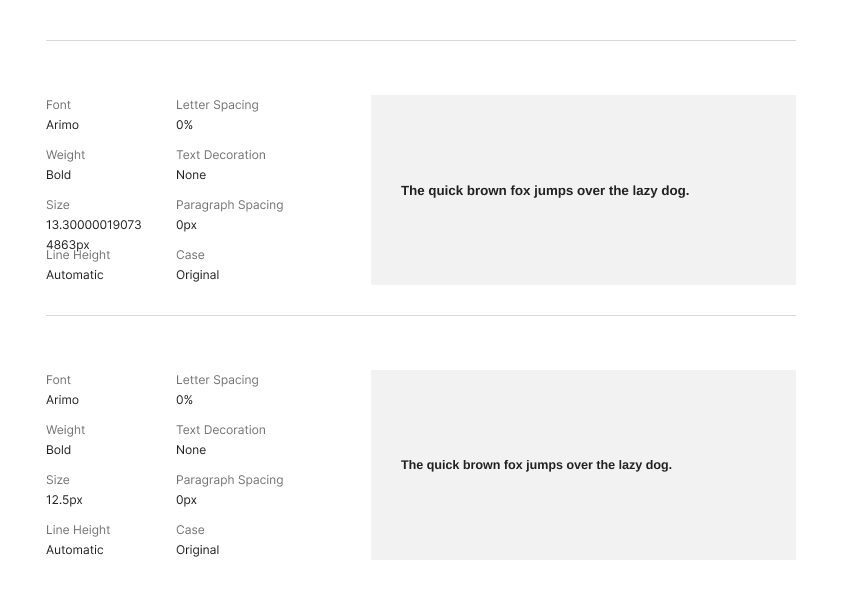
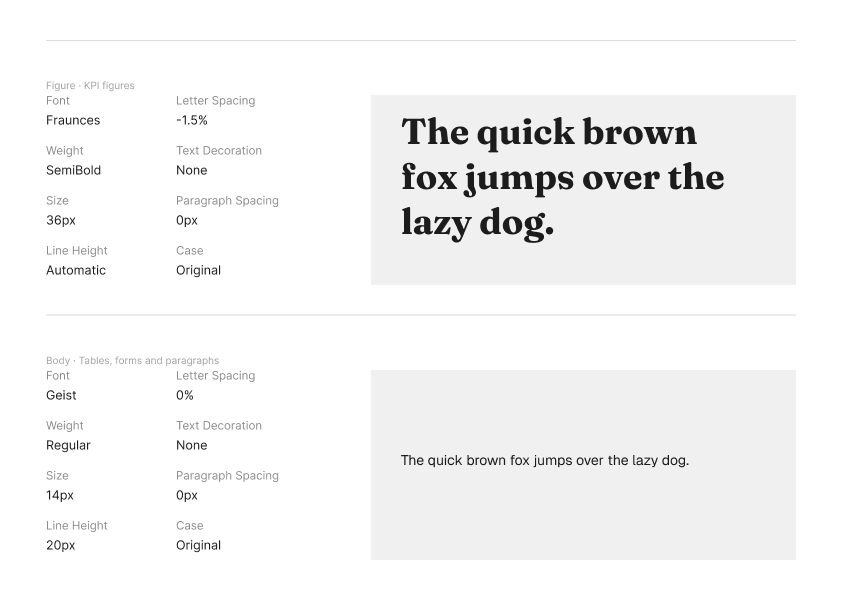
feat(cap-4): add website wireframes, wireflows, mockups, user flows and prototype map

diff --git a/report/13-chapter-04.md b/report/13-chapter-04.md
@@ -2,7 +2,7 @@
 
 ## 4.1. Style Guidelines.
 
-Esta sección establece las bases visuales y de comunicación para mantener la consistencia en todos los productos digitales de **OrganiK** (Landing Page y Dashboards). El objetivo es contar con un repositorio centralizado que facilite la escalabilidad del diseño y garantice una experiencia de usuario coherente tanto para administradores de minimarkets como para proveedores.
+Esta sección establece las bases visuales y de comunicación para mantener la consistencia en todos los productos digitales de OrganiK (Landing Page y Web Application). El objetivo es contar con un repositorio centralizado que facilite la escalabilidad del diseño y garantice una experiencia de usuario coherente para quienes gestionan el inventario, la conservación y el abastecimiento de productos orgánicos.
 
 ### 4.1.1. General Style Guidelines.
 
@@ -13,19 +13,23 @@ La comunicación de OrganiK se rige bajo cuatro dimensiones principales para est
 *   **Respetuoso vs. Irreverente:** Respetuoso. Considera la alta carga operativa y el estrés de los usuarios (como los administradores de minimarkets), mostrándose como un asistente empático.
 *   **Entusiasta vs. Sereno:** Sereno. Las interfaces e interacciones no buscan abrumar al usuario con celebraciones excesivas, sino brindar tranquilidad mediante la automatización y alertas preventivas.
 
+La interfaz se ofrece en español (idioma por defecto) y en inglés, con selector de idioma visible en la cabecera.
+
 **Branding y Paleta de Colores**
-La paleta cromática ha sido seleccionada cuidadosamente para generar confianza y evocar la naturaleza de los productos orgánicos, manteniendo un alto contraste para la lectura de datos:
-*   **Colores Primarios (Acción y Confianza):** Se utilizan tonalidades azules como *Azure Radiance* y *Dodger Blue*. El azul transmite seguridad, estabilidad y limpieza tecnológica.
-*   **Colores de Acento y Alerta (Dinamismo):** Se integran tonos anaranjados como *Pumpkin* y *Orange*. Utilizados exclusivamente para llamados a la acción (CTAs) y notificaciones críticas (alertas IoT de temperatura o fechas de vencimiento próximas).
-*   **Colores Neutros (Estructura y Legibilidad):** Se emplean variantes de grises (como *Slate Gray* y *Boulder*) y blancos (*Alice Blue*, *White*) para los fondos de los dashboards, reduciendo la fatiga visual.
+La paleta cromática evoca la naturaleza de los productos orgánicos y mantiene un alto contraste para la lectura de datos. Todo el producto se construye sobre una escala de verdes con un acento lima y neutros tintados de verde:
+*   **Colores Primarios (Marca y Acción):** *Forest* (`#0B2B1C`) para la barra lateral y superficies de énfasis; *Green* (`#17803F`) y *Green Strong* (`#116A33`) para botones principales, enlaces y estados activos; *Leaf* (`#2FA866`) para gráficos e indicadores positivos.
+*   **Colores de Acento (Dinamismo):** *Lime* (`#C8E04F`) y *Lime Soft* (`#D8EC8A`) para resaltar el elemento activo, cifras destacadas y llamados a la acción secundarios.
+*   **Colores Neutros (Estructura y Legibilidad):** *Mist* (`#EDF3EE`) como fondo de pantalla, *Tint* (`#E6F3E9`) y *Tint Strong* (`#D3EBD9`) para superficies y filas, *Border* (`#D5E4D8`) para divisores, *Muted* (`#4E6556`) para texto secundario y blanco para tarjetas, reduciendo la fatiga visual.
+*   **Colores de Estado (Alerta):** *Danger* (`#B42318`) con fondo *Danger Soft* (`#FDE8E6`) para errores, vencimientos críticos y alertas de conservación; *Warning* (`#7A4B00`) con fondo *Warning Soft* (`#FBE7A6`) para productos próximos a vencer y solicitudes pendientes.
 
 ![General Style Guide - Colores y Tipografía](assets/chapter-04/style-guideline-1.png)
 ![General Style Guide - Colores y Tipografía](assets/chapter-04/style-guideline-2.png)
 
 **Tipografía**
-Se seleccionaron dos familias Sans-Serif priorizando la legibilidad en pantallas de múltiples resoluciones:
-*   **Arimo:** Utilizada en encabezados, títulos de módulos y cifras destacadas en los dashboards. Su estructura robusta permite una rápida lectura de los KPIs.
-*   **Inter:** Asignada a los cuerpos de texto y tablas de datos. Diseñada específicamente para interfaces, garantiza que los datos densos sean legibles en tamaños pequeños.
+Se seleccionaron dos familias priorizando la legibilidad en pantallas de múltiples resoluciones (con Inter reservada para los wireframes de baja fidelidad):
+*   **Fraunces (SemiBold):** Utilizada en títulos de pantalla, títulos de tarjetas y cifras destacadas (KPIs) del dashboard. Su carácter serif aporta calidez y un tono natural acorde con el rubro orgánico. Estilos: *Display* 32 px, *Title* 24 px y *Figure* 36 px.
+*   **Geist:** Asignada a la interfaz: cuerpos de texto, tablas de datos, formularios, botones y etiquetas. Diseñada para interfaces, garantiza que los datos densos sean legibles en tamaños pequeños. Estilos: *Body* 14 px, *Body Medium* 15 px, *Caption* 12.5 px y *Label* 12 px en mayúsculas.
+*   **Inter:** Usada únicamente en los wireframes (12.7 px) para mantener un aspecto neutro y sin decoración.
 
 ![General Style Guide - Colores y Tipografía](assets/chapter-04/style-guideline-3.png)
 ![General Style Guide - Colores y Tipografía](assets/chapter-04/style-guideline-4.png)
@@ -36,56 +40,62 @@ Se seleccionaron dos familias Sans-Serif priorizando la legibilidad en pantallas
 
 Para garantizar que la experiencia sea fluida y adaptable (Responsive Web Design), se establecen los siguientes estándares visuales y de interacción:
 
-*   **Sistema de Grillas y Espaciado:** Se utiliza un sistema de espaciado basado en múltiplos de 8px para asegurar consistencia. La estructura base emplea una grilla de 12 columnas para resoluciones de escritorio, adaptándose a 4 columnas en dispositivos móviles.
-*   **Puntos de Ruptura (Breakpoints):** El diseño es fluido, con puntos de adaptación clave en 320px (Mobile), 768px (Tablet) y 1024px+ (Desktop/Laptop).
+*   **Sistema de Espaciado y Forma:** Se utiliza un espaciado basado en múltiplos de 4 y 8 px. Las tarjetas y paneles usan esquinas de 12 px y los campos y botones de 8 px, con sombras suaves que se elevan al interactuar. La barra lateral tiene un ancho fijo de 280 px en escritorio.
+*   **Puntos de Ruptura (Breakpoints):** El diseño es fluido, con puntos de adaptación en 600 px, 700 px, 900 px y 1000 px, donde las cuadrículas pasan a una sola columna y los paneles se reorganizan.
 *   **Estados de Interacción:**
-    *   *Hover:* Los botones principales y tarjetas aumentan sutilmente su sombra (elevation) y oscurecen su fondo un 10% para indicar interactividad.
-    *   *Disabled:* Los botones de acciones incompletas (ej. "Aceptar Pedido" sin haber revisado el lote) se desaturan a *Slate Gray* al 50% de opacidad.
-*   **Accesibilidad (A11y):** Los botones principales y enlaces en la versión móvil tienen un área mínima de toque de 44x44px para evitar errores al interactuar en movimiento. Se garantiza un ratio de contraste mínimo de 4.5:1 entre el texto y su fondo.
+    *   *Hover:* Los botones y tarjetas elevan sutilmente su sombra y oscurecen su fondo hacia *Green Strong*. Estos efectos se activan solo en dispositivos con puntero preciso (`hover: hover`).
+    *   *Disabled:* Los botones de acciones incompletas (ej. "Aceptar recepción" sin completar los datos) se desaturan y reducen su opacidad.
+    *   *Error:* Los campos inválidos muestran el borde y el mensaje en *Danger*; el formulario de acceso sacude el panel ante credenciales incorrectas.
+*   **Movimiento:** Las pantallas aparecen con entradas suaves y escalonadas (desenfoque y desplazamiento leve, 720 ms), las cifras de los KPI cuentan hasta su valor final y las transiciones entre vistas usan *View Transitions*. Todo movimiento se desactiva cuando el usuario tiene activada la preferencia `prefers-reduced-motion`.
+*   **Accesibilidad (A11y):** Se garantiza un ratio de contraste mínimo de 4.5:1 entre el texto y su fondo, y los estados no dependen solo del color: siempre van acompañados de texto o ícono.
 
 ## 4.2. Information Architecture.
 
 La Arquitectura de la Información (IA) de **OrganiK** ha sido diseñada con el objetivo de estructurar, organizar y etiquetar el contenido de la plataforma de manera que los usuarios puedan encontrar la información y completar sus tareas de forma intuitiva.
 
-Dado que la plataforma atiende a dos segmentos con necesidades y permisos operativos distintos, la arquitectura se divide en tres áreas principales: una zona pública orientada a la conversión (Landing Page) y dos zonas privadas (Dashboards) adaptadas al flujo operativo de cada rol (Administrador de Minimarket y Proveedor B2B). Esta separación garantiza que cada usuario acceda únicamente a la información y herramientas relevantes para su gestión.
+Dado que la plataforma atiende a dos segmentos con necesidades y permisos operativos distintos, la arquitectura se divide en tres áreas principales: una zona pública orientada a la conversión (Landing Page) y dos zonas privadas (Web Application) adaptadas al flujo operativo de cada rol (Administrador de Minimarket y Proveedor B2B). Esta separación garantiza que cada usuario acceda únicamente a la información y herramientas relevantes para su gestión.
+
+La landing y la aplicación son productos separados que se conectan por enlaces: el botón *Iniciar sesión* de la landing lleva a la pantalla de acceso de la aplicación, y esta ofrece el enlace de regreso a la landing. Las dos zonas privadas comparten el mismo shell de navegación (barra lateral, cabecera con búsqueda global y selector de idioma) y las rutas están protegidas por autenticación; el rol de cada cuenta se administra desde *Usuarios y roles*.
 
 A continuación, se presenta el Mapa de Sitio (Site Map) jerárquico de la plataforma:
 
 **1. Zona Pública (Landing Page)**
 *   **1.1. Inicio:** Propuesta de valor principal.
-*   **1.2. Solución:** Explicación del funcionamiento integrado (Inventario, Monitoreo y Abastecimiento).
+*   **1.2. Solución:** Explicación del funcionamiento integrado (Inventario, Conservación y Abastecimiento).
 *   **1.3. Beneficios:** Ventajas de la reducción de mermas y digitalización B2B.
 *   **1.4. Equipo:** Presentación del equipo desarrollador.
 *   **1.5. Planes y Precios:** Suscripciones para Minimarkets y Proveedores.
-*   **1.6. Acceso:**
-    *   1.6.1. Iniciar Sesión (Login).
-    *   1.6.2. Registro de nueva cuenta.
+*   **1.6. Acceso:** Iniciar sesión (enlace a la Web Application). Selector de idioma ES/EN en la barra de navegación.
 
 **2. Zona Privada: Administrador de Minimarket**
-*   **2.1. Dashboard Principal:** Resumen de métricas, accesos rápidos y alertas críticas.
-*   **2.2. Inventario Local:**
-    *   2.2.1. Lista de productos orgánicos.
-    *   2.2.2. Control de lotes y fechas de vencimiento.
-    *   2.2.3. Registro de mermas y ofertas.
-*   **2.3. Monitoreo Ambiental (IoT):**
+*   **2.1. Panel (Dashboard):** Resumen de indicadores (KPI), accesos rápidos y alertas críticas.
+*   **2.2. Inventario:**
+    *   2.2.1. Lista de existencias con el estado de cada lote (vigente, próximo a vencer, vencido).
+    *   2.2.2. Registrar stock.
+    *   2.2.3. Productos: catálogo de productos orgánicos por categoría y alta de nuevo producto.
+*   **2.3. Conservación (Monitoreo Ambiental):**
     *   2.3.1. Lecturas de temperatura y humedad (simuladas en la validación inicial).
     *   2.3.2. Historial de alertas de conservación.
 *   **2.4. Abastecimiento:**
-    *   2.4.1. Catálogo de proveedores y necesidades de reposición.
-    *   2.4.2. Bandeja de pedidos generados por proveedores (Aceptar / Rechazar).
-    *   2.4.3. Estado e historial de pedidos.
-*   **2.5. Configuración:** Perfil del negocio y preferencias de alertas.
+    *   2.4.1. Proveedores: directorio, perfil del proveedor, nuevo proveedor y proveedores sugeridos.
+    *   2.4.2. Solicitudes: necesidades de reposición compartidas con proveedores y nueva solicitud.
+    *   2.4.3. Envíos: bandeja de pedidos creados por proveedores (Aceptar / Rechazar recepción) y su estado e historial.
+*   **2.5. Análisis y alertas (Analytics):** Indicadores operativos, alertas y generación de reportes.
+*   **2.6. Administración:**
+    *   2.6.1. Usuarios y roles: lista de cuentas, estado y alta de nuevo usuario.
+    *   2.6.2. Perfiles: perfiles de minimarkets y proveedores.
+    *   2.6.3. Configuración: perfil del negocio y preferencias de alertas.
 
 **3. Zona Privada: Proveedor B2B**
-*   **3.1. Dashboard Principal:** Resumen de ventas, estado de despachos y KPIs comerciales.
+*   **3.1. Panel (Dashboard):** Resumen de pedidos, estado de despachos y KPIs comerciales.
 *   **3.2. Mi Catálogo:**
-    *   3.2.1. Gestión de productos ofrecidos.
-    *   3.2.2. Actualización de disponibilidad y lotes en almacén.
+    *   3.2.1. Gestión de productos ofrecidos (agregar producto).
+    *   3.2.2. Actualización de disponibilidad y lotes en almacén (registrar stock).
 *   **3.3. Gestión de Pedidos:**
-    *   3.3.1. Consulta de necesidades compartidas por minimarkets vinculados.
-    *   3.3.2. Creación de pedidos dirigidos a minimarkets.
-    *   3.3.3. Consulta de estado e historial de pedidos.
-*   **3.4. Red de Clientes:** Directorio de minimarkets asociados.
+    *   3.3.1. Consulta de necesidades de reposición compartidas por minimarkets vinculados (Solicitudes).
+    *   3.3.2. Creación de pedidos dirigidos a minimarkets (Envíos).
+    *   3.3.3. Consulta de estado e historial de pedidos; el pedido queda pendiente hasta que el administrador destinatario lo acepta o rechaza.
+*   **3.4. Red de Clientes:** Directorio de minimarkets asociados (Perfiles).
 *   **3.5. Configuración:** Perfil de la empresa y detalles logísticos.
 
 ![Site Map - Plataforma OrganiK](assets/chapter-04/site-map.png)
@@ -95,82 +105,158 @@ A continuación, se presenta el Mapa de Sitio (Site Map) jerárquico de la plata
 El sistema de organización de **OrganiK** define cómo se estructura y clasifica la información para que los usuarios interactúen con la plataforma sin fricciones. Se han aplicado los siguientes esquemas organizativos:
 *   **Organización Visual y Estructural:**
     *   *Jerárquica:* Aplicada en la *Landing Page*, donde la información fluye de mayor a menor importancia.
-    *   *Matricial:* Utilizada en los dashboards, permitiendo al usuario navegar entre diferentes dimensiones operativas (Inventario, Pedidos, IoT) sin un orden secuencial estricto.
+    *   *Matricial:* Utilizada en la aplicación, permitiendo al usuario navegar entre diferentes dimensiones operativas (Inventario, Solicitudes, Envíos, Conservación) desde la barra lateral sin un orden secuencial estricto.
 *   **Esquemas de Categorización:**
-    *   *Según Audiencia:* Separa la experiencia del *Administrador de Minimarket* (enfocada en control interno y compras) de la del *Proveedor B2B* (enfocada en ventas y despachos).
-    *   *Cronológico:* Aplicado en los historiales de pedidos, registro de mermas y el log de alertas ambientales, ordenando los datos desde el evento más reciente al más antiguo.
-    *   *Por Tópicos:* Utilizado para estructurar el catálogo y el inventario físico, facilitando la agrupación de lotes y productos.
+    *   *Según Audiencia:* Separa la experiencia del *Administrador de Minimarket* (enfocada en control interno y compras) de la del *Proveedor B2B* (enfocada en catálogo, ventas y despachos).
+    *   *Cronológico:* Aplicado en los historiales de pedidos y en el registro de alertas de conservación, ordenando los datos desde el evento más reciente al más antiguo.
+    *   *Por Tópicos:* Utilizado para estructurar el catálogo por categorías de producto y el inventario físico, facilitando la agrupación de lotes y productos.
 
 ### 4.2.2. Labeling Systems.
 
 Para garantizar la comprensión inmediata en entornos operativos rápidos, el sistema de etiquetado se basa en el *Ubiquitous Language* del sector logístico:
-*   **Etiquetas de Navegación:** Términos precisos de 1 a 2 palabras (Ej: *Inventario*, *Abastecimiento*, *Mi Catálogo*, *Mermas*).
-*   **Etiquetas de Acción (Botones):** Utilizan verbos en infinitivo que indican el resultado de la acción alineados a los User Stories (Ej: *Generar Pedido*, *Aprobar Orden de Envío*, *Crear Orden*).
-*   **Etiquetas de Estado:** Emplean un código de color universal respaldado por texto claro para el seguimiento (Ej: *Pendiente* [Amarillo], *Aprobado* [Verde], *Rechazado* [Rojo], *En Ruta* [Azul]).
-*   **Apoyo Iconográfico:** Las etiquetas de navegación principal siempre están acompañadas de iconos estandarizados para acelerar el reconocimiento visual.
+*   **Etiquetas de Navegación:** Términos precisos de 1 a 3 palabras (Ej: *Inventario*, *Productos*, *Solicitudes*, *Envíos*, *Conservación*, *Usuarios y roles*).
+*   **Etiquetas de Acción (Botones):** Utilizan verbos en infinitivo que indican el resultado de la acción, alineados a los User Stories (Ej: *Agregar producto*, *Registrar stock*, *Nueva solicitud*, *Generar reporte*).
+*   **Etiquetas de Estado:** Emplean un código de color respaldado por texto claro para el seguimiento (Ej: *Pendiente* [Ámbar], *Aprobado/Vigente* [Verde], *Rechazado/Vencido* [Rojo]).
+*   **Apoyo Iconográfico:** Las etiquetas de navegación principal siempre están acompañadas de iconos de Material Design para acelerar el reconocimiento visual.
 
 ### 4.2.3. SEO Tags and Meta Tags
 
 Para asegurar el posicionamiento en motores de búsqueda y la correcta previsualización al compartir enlaces, se han configurado los siguientes metadatos:
 *   **Landing Page (Pública):**
-    *   `Title:` `<title>OrganiK | Gestión de Inventarios, Monitoreo IoT y Abastecimiento B2B</title>`
-    *   `Meta Description:` `<meta name="description" content="Plataforma SaaS especializada en productos orgánicos. Conecta minimarkets y proveedores, controla inventarios, previene mermas con sensores IoT y gestiona pedidos B2B.">`
-    *   `Meta Keywords:` `<meta name="keywords" content="minimarkets, productos orgánicos, abastecimiento B2B, control de inventario, monitoreo IoT, reducir mermas">`
-*   **Web Application (Privada):** Dado que requiere autenticación, los motores de búsqueda no indexarán el contenido interno (`<meta name="robots" content="noindex, nofollow">`), protegiendo la privacidad operativa de los clientes. Se usan títulos dinámicos en la pestaña (Ej. `<title>Inventario - OrganiK</title>`).
+    *   `Title:` `<title>Organik · Control de inventario para minimarkets</title>`
+    *   `Meta Description:` `<meta name="description" content="Organik centraliza inventario, lotes y vencimientos para que tu minimarket reponga a tiempo y deje de perder producto.">`
+    *   `Open Graph:` `<meta property="og:title" content="Organik · Control de inventario para minimarkets">` y `<meta property="og:description" content="Anticipa vencimientos y gestiona el abastecimiento en tiempo real.">`
+*   **Web Application (Privada):** Dado que requiere autenticación, el contenido interno no debe ser indexado por los motores de búsqueda (`<meta name="robots" content="noindex, nofollow">`), protegiendo la privacidad operativa de los clientes. Se usan títulos dinámicos en la pestaña según la pantalla activa (Ej. `Inventario - OrganiK`).
 
 ### 4.2.4. Searching Systems.
 
-Debido al alto volumen transaccional, OrganiK implementa un sistema de búsqueda robusto para reducir el tiempo de localización de datos:
-*   **Búsqueda Global:** Ubicada en la cabecera del dashboard, permite realizar consultas mediante coincidencia de cadenas (ej. buscar por producto "Manzana" o ID de pedido "ORD-0012").
-*   **Filtros Contextuales:** Menús desplegables en las tablas de datos para refinar resultados (ej. filtrar inventario por estado "Próximo a Vencer", o filtrar pedidos por "Proveedor").
-*   **Presentación de Resultados:** Los datos se presentan en *Data Tables* ordenables y paginadas para no sobrecargar la vista.
+Debido al alto volumen transaccional, OrganiK implementa un sistema de búsqueda para reducir el tiempo de localización de datos:
+*   **Búsqueda Global:** Ubicada en la cabecera de la aplicación, permite realizar consultas por coincidencia de texto (ej. buscar el producto "Manzana" o un proveedor) y navegar directamente al resultado.
+*   **Filtros Contextuales:** Controles en las tablas de datos para refinar resultados (ej. filtrar inventario por estado "Próximo a vencer", o filtrar solicitudes por estado).
+*   **Presentación de Resultados:** Los datos se presentan en *Data Tables* ordenables para no sobrecargar la vista.
 
 ### 4.2.5. Navigation Systems.
 
-El sistema de navegación está estructurado para que los usuarios interactúen con la menor cantidad de clics posibles, adaptándose al comportamiento *Mobile-First*:
-*   **Navegación Global (Landing Page):** *Sticky Top Navbar* con anclas (anchor links) a secciones clave y un botón *Call-to-Action* destacado ("Iniciar Sesión").
-*   **Navegación Global (Web App):** *Sidebar* lateral izquierda colapsable en escritorio, y menú *Hamburguesa* en móviles para facilitar el uso en pantallas pequeñas.
-*   **Navegación Local:** Pestañas (Tabs) dentro de un mismo módulo para separar sub-vistas (ej. Dentro del módulo "Inventario", pestañas separadas para *Stock Activo*, *Lotes* y *Mermas*).
-*   **Navegación Suplementaria:** Ruta de migas de pan (Breadcrumbs) en la cabecera (ej. `OrganiK > Abastecimiento > Detalle Pedido ORD-0012`) que orienta al usuario y le permite retroceder niveles sin perder contexto.
+El sistema de navegación está estructurado para que los usuarios interactúen con la menor cantidad de clics posibles:
+*   **Navegación Global (Landing Page):** *Sticky Top Navbar* con anclas (anchor links) a secciones clave, selector de idioma ES/EN y un enlace destacado "Iniciar sesión" que lleva a la aplicación.
+*   **Navegación Global (Web App):** *Sidebar* lateral izquierda con los módulos principales, cada uno con su icono, y cabecera con búsqueda global, selector de idioma y cierre de sesión.
+*   **Navegación Local:** Cada módulo ofrece sus acciones principales como botones sobre la tabla (ej. *Registrar stock* en Inventario, *Nueva solicitud* en Solicitudes) que abren el formulario correspondiente, con un botón para volver a la lista.
+*   **Control de Acceso:** Las rutas privadas están protegidas por una guarda de autenticación que conserva la dirección solicitada y la recupera tras iniciar sesión; si el usuario ya tiene sesión, el login lo redirige al panel.
 
 ## 4.3. Landing Page UI Design.
 
-En esta sección se presenta la propuesta de Interfaz de Usuario (UI) para la Landing Page de **OrganiK**. El diseño visual traduce las decisiones tomadas en la Arquitectura de la Información y las Guías de Estilo en una interfaz tangible orientada a la conversión. El objetivo principal de esta página pública es comunicar claramente la propuesta de valor integrada (gestión de inventarios, monitoreo IoT y abastecimiento B2B) y dirigir a los administradores de minimarkets y proveedores hacia el registro o inicio de sesión.
+En esta sección se presenta la propuesta de Interfaz de Usuario (UI) para la Landing Page de **OrganiK**. El diseño visual traduce las decisiones tomadas en la Arquitectura de la Información y las Guías de Estilo en una interfaz tangible orientada a la conversión. El objetivo principal de esta página pública es comunicar claramente la propuesta de valor integrada (gestión de inventarios, conservación y abastecimiento) y dirigir a los usuarios hacia el inicio de sesión.
 
 ### 4.3.1. Landing Page Wireframe.
 
-Los wireframes representan el esqueleto estructural de la página en baja fidelidad, desprovistos de color y tipografía final, para centrar el análisis en la usabilidad y la distribución del contenido.
+Los wireframes representan el esqueleto estructural de la página en baja fidelidad, desprovistos de color y tipografía final, para centrar el análisis en la usabilidad y la distribución del contenido. Se elaboraron en las versiones en español e inglés.
 
 **Explicación del Diseño y Arquitectura:**
 *   **Estructura Visual:** Se ha optado por un diseño de bloque único (*Single-page layout*) que guía al usuario a través de un viaje lógico: Problema $\rightarrow$ Solución (Características de OrganiK) $\rightarrow$ Planes $\rightarrow$ Call to Action (CTA).
-*   **Jerarquía de Información:** La sección *Hero* (cabecera principal) destaca la propuesta de valor central con botones de acción inmediata. A medida que se hace *scroll*, la información se desglosa en bloques asimétricos o de cuadrícula (grid) para explicar módulos específicos como el control de lotes y las alertas IoT.
-*   **Diseño Inclusivo:** Para la versión *Mobile Web Browser*, el wireframe estructural apila los contenedores en una sola columna. Se ha proyectado que las áreas de interacción (botones de "Empezar" o "Conoce los planes") tengan un área táctil amplia (mínimo 44x44px) para evitar frustración motriz en dispositivos móviles.
+*   **Jerarquía de Información:** La sección *Hero* (cabecera principal) destaca la propuesta de valor central con botones de acción inmediata. A medida que se hace *scroll*, la información se desglosa en bloques asimétricos o de cuadrícula (grid) para explicar módulos específicos como el control de lotes y las alertas de conservación.
+*   **Diseño Inclusivo:** Para la versión *Mobile Web Browser*, el wireframe estructural apila los contenedores en una sola columna. Las áreas de interacción tienen un área táctil amplia para evitar frustración motriz en dispositivos móviles.
 
 ![Landing Page Wireframe - Plataforma OrganiK](assets/chapter-04/landing-page-wireframe.png)
 
 ### 4.3.2. Landing Page Mock-up.
 
-Los mock-ups representan el diseño final en alta fidelidad, integrando el *Design System* establecido para los productos digitales de OrganiK.
+Los mock-ups representan el diseño final en alta fidelidad, integrando el *Design System* establecido para los productos digitales de OrganiK y los textos de la landing publicada.
 
 **Explicación de la Aplicación Visual y UI:**
-*   **Aplicación de Style Guidelines:** El diseño final hace un uso extenso del espacio en blanco (White y Alice Blue) para transmitir una sensación de modernidad y limpieza, esencial en un software B2B. Los colores primarios (*Azure Radiance* y *Dodger Blue*) se reservan estratégicamente para los componentes interactivos principales (botones de Login/Registro y enlaces), atrayendo naturalmente la vista del usuario.
-*   **Tipografía y Legibilidad:** Se aplica la fuente *Arimo* en su variante Bold para los encabezados principales (H1, H2), logrando un impacto rápido; mientras que los párrafos explicativos utilizan *Inter*, garantizando una legibilidad óptima incluso en las tarjetas descriptivas de los planes de suscripción.
-*   **Consistencia de Interacción:** La barra de navegación superior (Navbar) se mantiene fija (*sticky*) durante el *scroll*, permitiendo que el usuario pueda acceder al botón de "Iniciar Sesión" en cualquier momento de su lectura, maximizando las oportunidades de conversión.
-*   **Accesibilidad Visual:** Se ha verificado que el contraste entre los textos oscuros (Slate Gray/Boulder) y los fondos claros supere el ratio mínimo de 4.5:1 exigido por las normativas de accesibilidad web (WCAG), asegurando que cualquier usuario pueda leer la propuesta de valor sin esfuerzo visual.
+*   **Aplicación de Style Guidelines:** El diseño hace uso de un fondo oscuro en *Forest* con acentos en *Lime* y *Green*, que transmite una sensación de naturaleza, modernidad y confianza. Los colores de acción se reservan estratégicamente para los componentes interactivos principales (botón de inicio de sesión y llamados a la acción), atrayendo naturalmente la vista del usuario.
+*   **Tipografía y Legibilidad:** Se aplica *Fraunces* en los encabezados principales (H1, H2), logrando impacto y calidez; mientras que los párrafos explicativos y las tarjetas utilizan *Geist*, garantizando una legibilidad óptima.
+*   **Consistencia de Interacción:** La barra de navegación superior (Navbar) se mantiene fija (*sticky*) durante el *scroll*, permitiendo acceder al enlace de "Iniciar sesión" en cualquier momento de la lectura.
+*   **Accesibilidad Visual:** Se ha verificado que el contraste entre los textos y sus fondos supere el ratio mínimo de 4.5:1 exigido por las normativas de accesibilidad web (WCAG).
 
 ![Landing Page Mockup - Plataforma OrganiK](assets/chapter-04/landing-page-mockup.png)
 
 ## 4.4. Web Applications UX/UI Design.
 
+Esta sección documenta el diseño de la aplicación web de OrganiK: la estructura de sus pantallas en baja fidelidad, los recorridos entre ellas, su diseño visual final y los flujos de usuario. Las pantallas se diseñaron a partir de la aplicación implementada, aplicando la paleta y tipografía definidas en 4.1.
+
 ### 4.4.1. Web Applications Wireframes.
+
+Los wireframes de la aplicación muestran la distribución de contenido de cada pantalla en escala de grises. Todas las pantallas comparten el mismo esqueleto: barra lateral de navegación a la izquierda, cabecera con búsqueda global y área de contenido con título, indicadores y tabla o formulario.
+
+**Pantallas principales:** Login, Dashboard, Inventario, Productos, Solicitudes, Envíos, Proveedores, Perfil de proveedor, Conservación, Análisis y alertas, Analytics, Usuarios y roles, Perfiles y Configuración.
+
+**Pantallas de interacción:** Agregar producto, Registrar stock, Nueva solicitud, Aceptar recepción, Nuevo proveedor, Ver alertas, Generar reporte, Ver proveedores sugeridos y Nuevo usuario.
+
+![Web Applications Wireframes - Pantallas principales](assets/chapter-04/web-wireframes-screens.png)
+
+![Web Applications Wireframes - Interacciones](assets/chapter-04/web-wireframes-interactions.png)
 
 ### 4.4.2. Web Applications Wireflow Diagrams.
 
+Los wireflows combinan los wireframes con las transiciones entre pantallas. A continuación se describen los recorridos principales:
+
+*   **Acceso:** Landing Page $\rightarrow$ *Iniciar sesión* $\rightarrow$ Login $\rightarrow$ Dashboard. Si el usuario intenta abrir una ruta privada sin sesión, es enviado al Login y, al autenticarse, vuelve a la ruta solicitada.
+*   **Registro de existencias:** Dashboard $\rightarrow$ Inventario $\rightarrow$ *Registrar stock* $\rightarrow$ Formulario $\rightarrow$ Inventario actualizado.
+*   **Catálogo:** Productos $\rightarrow$ *Agregar producto* $\rightarrow$ Formulario $\rightarrow$ Catálogo actualizado.
+*   **Abastecimiento:** Solicitudes $\rightarrow$ *Nueva solicitud* $\rightarrow$ Envíos $\rightarrow$ *Aceptar recepción* (el inventario se actualiza una sola vez, al aceptar).
+*   **Proveedores:** Proveedores $\rightarrow$ Perfil del proveedor / *Nuevo proveedor* / Proveedores sugeridos.
+*   **Conservación:** Conservación $\rightarrow$ *Ver alertas* $\rightarrow$ Alertas de conservación.
+*   **Analítica:** Análisis y alertas $\rightarrow$ *Generar reporte*.
+*   **Administración:** Usuarios y roles $\rightarrow$ *Nuevo usuario*.
+
+![Web Applications Wireflow Diagram](assets/chapter-04/web-wireflow.png)
+
 ### 4.4.2. Web Applications Mock-ups.
+
+Los mock-ups muestran el diseño de alta fidelidad de cada pantalla con la paleta verde y las tipografías Fraunces y Geist. Entre las decisiones visuales principales:
+
+*   **Barra lateral en *Forest* (verde bosque)** con el módulo activo resaltado en *Lime*, de modo que el usuario siempre sabe dónde está.
+*   **Tarjetas de indicadores (KPI)** con cifras en Fraunces que cuentan hasta su valor final al cargar la pantalla.
+*   **Tablas de datos** sobre fondo blanco con filas en *Tint* al pasar el cursor, y etiquetas de estado con color y texto (Vigente, Próximo a vencer, Vencido, Pendiente, Aprobado, Rechazado).
+*   **Alertas** de vencimiento y de conservación en tonos *Warning* y *Danger*, usados únicamente para lo que requiere atención.
+*   **Formularios** en tarjetas con campos de 8 px de radio, mensajes de validación en línea y botón principal en *Green*.
+*   **Pantalla de acceso** dividida: panel de marca a un lado y formulario al otro, con enlace de regreso a la landing.
+
+![Web Applications Mock-ups - Pantallas principales](assets/chapter-04/web-mockups-screens.png)
+
+![Web Applications Mock-ups - Interacciones](assets/chapter-04/web-mockups-interactions.png)
 
 ### 4.4.3. Web Applications User Flow Diagrams.
 
+Los diagramas de flujo de usuario describen, paso a paso, cómo el usuario completa las tareas principales.
+
+**Flujo 1 – Iniciar sesión**
+1. El usuario ingresa desde la landing o directamente a la aplicación.
+2. Escribe su correo y contraseña en el Login.
+3. Si las credenciales son incorrectas, el panel muestra el error y permite reintentar; si la cuenta está pendiente de activación, se informa.
+4. Si son correctas, se crea la sesión y se muestra el Dashboard (o la ruta que intentó abrir).
+
+**Flujo 2 – Registrar stock**
+1. Desde Inventario, el usuario selecciona *Registrar stock*.
+2. Elige el producto e ingresa cantidad, lote y fecha de vencimiento.
+3. El formulario valida los datos; si hay errores, los marca en línea.
+4. Al guardar, el inventario se actualiza y se confirma con una notificación.
+
+**Flujo 3 – Gestionar un pedido**
+1. El administrador comparte una necesidad con *Nueva solicitud*.
+2. El proveedor crea el pedido dirigido al minimarket.
+3. Desde Envíos, el administrador destinatario revisa el pedido y elige *Aceptar* o *Rechazar*.
+4. Si acepta, el inventario se actualiza una sola vez; si rechaza, las existencias no cambian.
+
+**Flujo 4 – Atender una alerta de conservación**
+1. El Dashboard o Conservación muestra una alerta por temperatura o humedad fuera de rango.
+2. El usuario abre *Ver alertas* y revisa el detalle.
+3. Toma acción sobre el lote afectado (registrar merma o cambiar su estado).
+
+![Web Applications User Flow Diagrams](assets/chapter-04/web-user-flows.png)
+
 ## 4.5. Web Applications Prototyping.
+
+El prototipo de la aplicación web es una aplicación funcional desarrollada en Angular, con datos simulados en memoria y latencia artificial para reproducir la experiencia real. Permite recorrer todas las pantallas del diseño sin depender de un servidor, y valida los flujos descritos en 4.4 antes de integrar el backend.
+
+*   **Tecnología:** Angular, Angular Material, Reactive Forms y ngx-translate (español e inglés).
+*   **Organización:** Un contexto por bounded context, cada uno con las capas `domain`, `infrastructure`, `application` y `presentation`. Los datos provienen de repositorios en memoria que más adelante se reemplazarán por la API REST.
+*   **Cobertura:** Dashboard, Inventario, Productos, Solicitudes, Envíos, Proveedores, Conservación, Analytics, Usuarios, Perfiles y Configuración, junto con sus formularios de interacción.
+*   **Acceso:** Inicio de sesión con cuentas de demostración, sesión por pestaña del navegador y rutas protegidas por guardas de autenticación.
+*   **Calidad:** 130 pruebas automatizadas, flujo de trabajo con ramas Gitflow y commits convencionales.
+*   **Repositorios:** La aplicación se encuentra en `5Bits-OrganiK/organik-website-v2` y la landing page en `5Bits-OrganiK/organik-frontend-v2`, como repositorios independientes conectados por enlaces.
+
+![Web Applications Prototype - Flujo del prototipo](assets/chapter-04/web-prototype-flow.png)
 
 ## 4.6. Domain-Driven Software Architecture.
 
